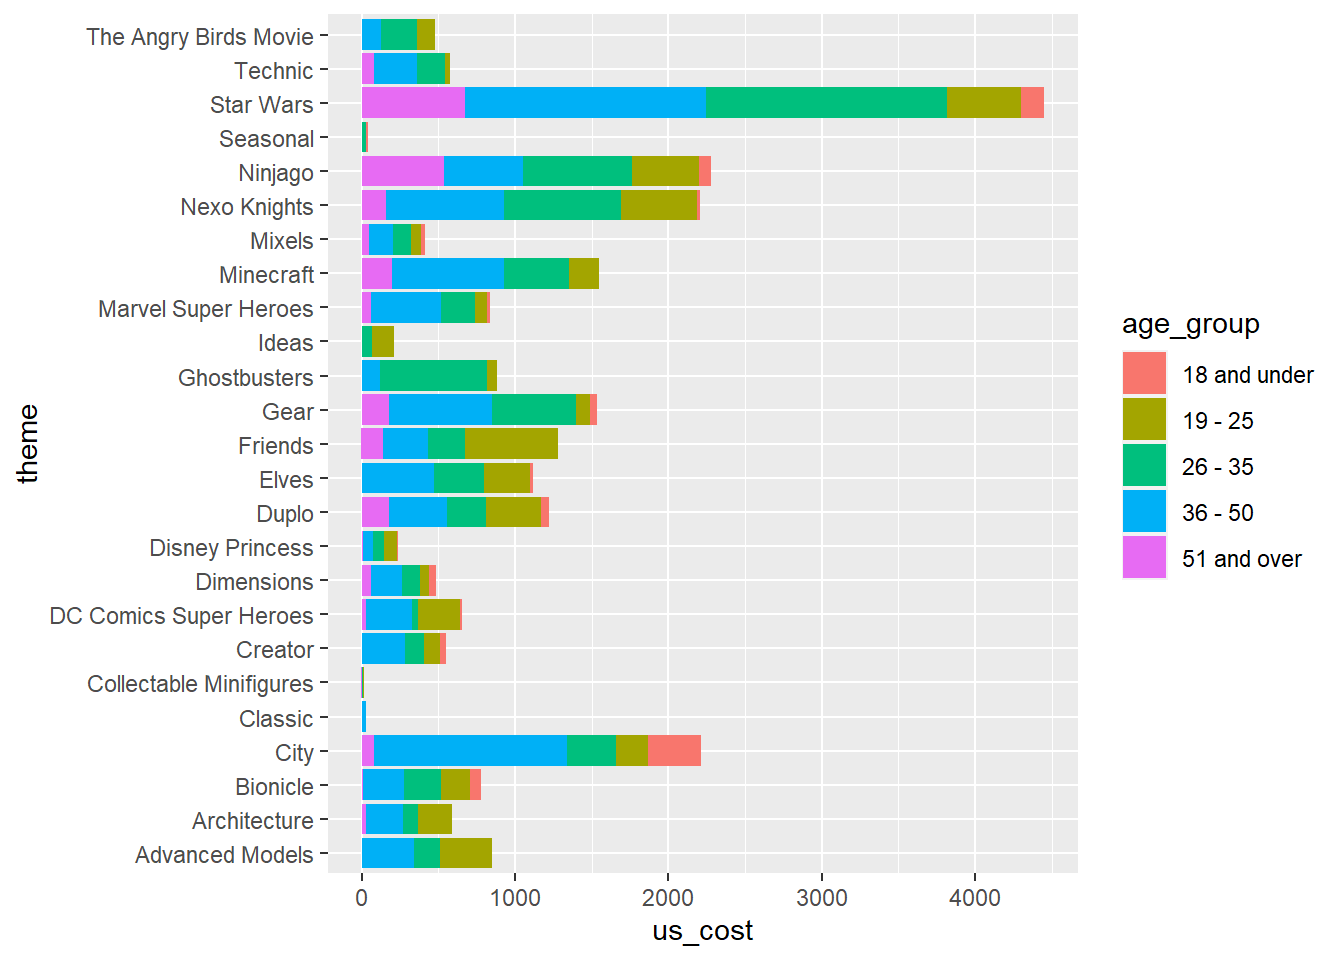
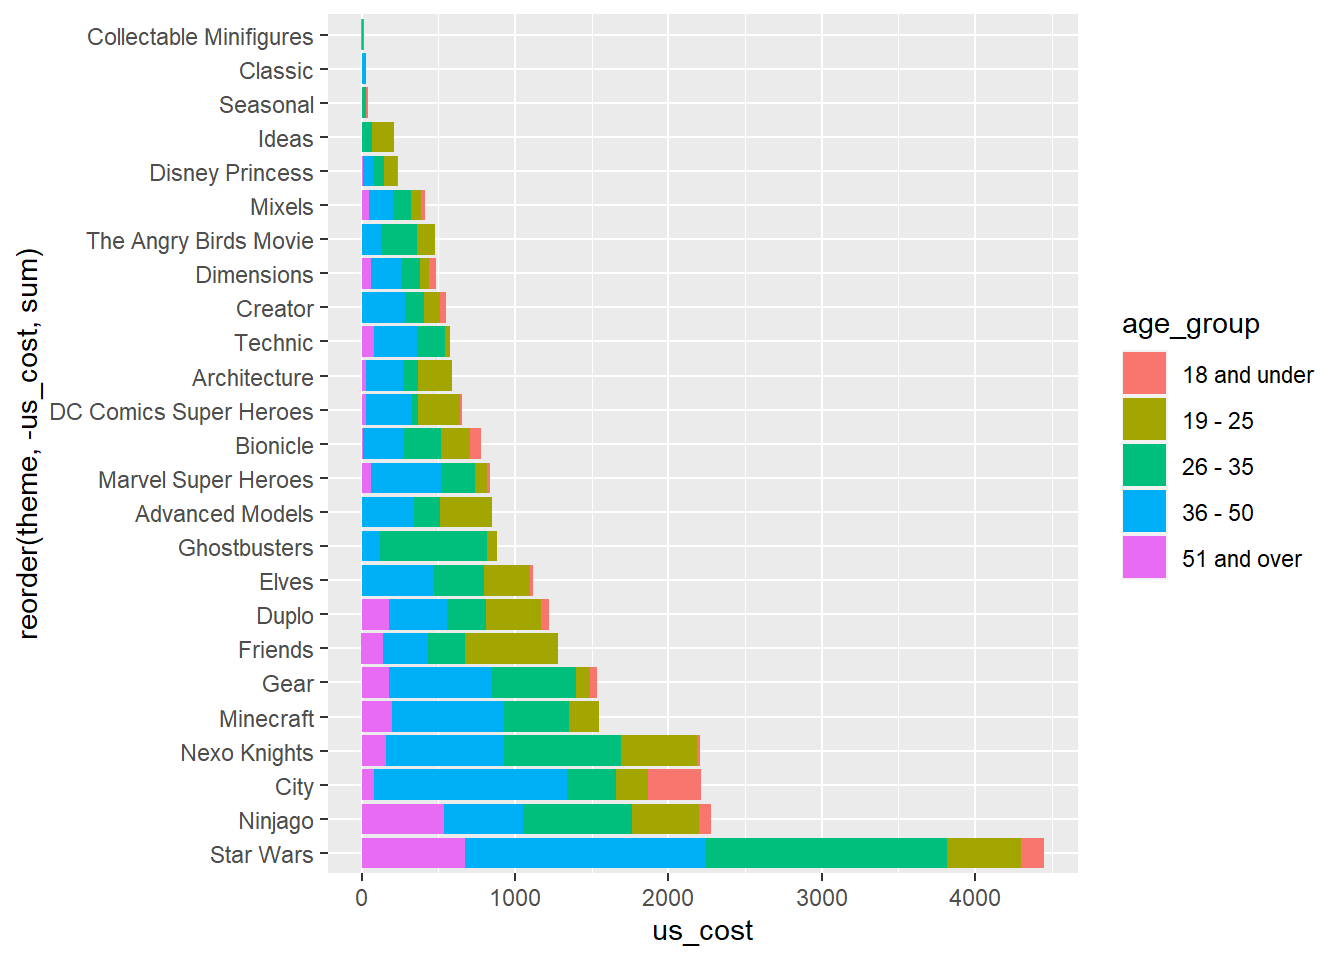
Uploaded Assginment 3.

Changed region(s): [[0.0, 0.0, 0.7812, 0.9062]]

diff --git a/public/2021/06/04/assignment-03-lego-sales/index.html b/public/2021/06/04/assignment-03-lego-sales/index.html
@@ -86,25 +86,10 @@
   count(sort = TRUE, name = &quot;count_names&quot;) %&gt;%
   arrange(desc(count_names)) %&gt;%
   head(10)
-  
-common_names</code></pre>
-<pre><code>## # A tibble: 10 x 2
-## # Groups:   first_name [10]
-##    first_name count_names
-##    &lt;chr&gt;            &lt;int&gt;
-##  1 Jackson             13
-##  2 Jacob               11
-##  3 Joseph              11
-##  4 Michael             10
-##  5 Audrey               8
-##  6 Connor               8
-##  7 Kaitlyn              8
-##  8 Lucas                8
-##  9 Amanda               7
-## 10 Joshua               7</code></pre>
-<pre class="r"><code>ggplot(common_names, aes( x= first_name, y = count_names)) +
+
+
+ggplot(common_names, aes( x= first_name, y = count_names)) +
   geom_col(stat = &quot;Count&quot;)</code></pre>
-<pre><code>## Warning: Ignoring unknown parameters: stat</code></pre>
 <p><img src="/2021/06/04/assignment-03-lego-sales/index_files/figure-html/unnamed-chunk-2-1.png" width="672" /></p>
 </div>
 <div id="determine-the-top-3-themes" class="section level2">
@@ -194,14 +179,14 @@ mutate(us_cost = us_price * quantity) %&gt;%
   
 
 
-ggplot(lego_themespending, aes(x = us_cost , y = theme, fill = age_group)) + 
+ggplot(lego_themespending, aes(x = us_cost, y = reorder(theme, -us_cost, sum), fill = age_group)) + 
   geom_col()</code></pre>
 <p><img src="/2021/06/04/assignment-03-lego-sales/index_files/figure-html/unnamed-chunk-8-1.png" width="672" /></p>
 </div>
 <div id="add-an-element-to-the-above-plot" class="section level2">
 <h2>Add an element to the above plot</h2>
 <p>The change I made to the above plot was to the chart labels. I added better looking names to the chart.</p>
-<pre class="r"><code>ggplot(lego_themespending, aes(x = us_cost , y = theme, fill = age_group)) + 
+<pre class="r"><code>ggplot(lego_themespending, aes(x = us_cost, y = reorder(theme, -us_cost, sum), fill = age_group)) + 
   geom_col() +
   labs(title = &quot;Spending on Themes by Age Group&quot;, fill = &quot;Age Group&quot; ) +
   xlab(&quot;Cost in US Dollars ($)&quot;) +

diff --git a/content/post/2021-06-04-assignment-03-lego-sales/index.html b/content/post/2021-06-04-assignment-03-lego-sales/index.html
@@ -1,6 +1,6 @@
 ---
-title: Assignment 03 - Lego Sales
-author: DylanMcKenna
+title: "Assignment 03 - Lego Sales"
+author: "DylanMcKenna"
 date: '2021-06-04'
 slug: assignment-03-lego-sales
 categories: []
@@ -113,14 +113,14 @@ mutate(us_cost = us_price * quantity) %&gt;%
   
 
 
-ggplot(lego_themespending, aes(x = us_cost , y = theme, fill = age_group)) + 
+ggplot(lego_themespending, aes(x = us_cost, y = reorder(theme, -us_cost, sum), fill = age_group)) + 
   geom_col()</code></pre>
 <p><img src="{{< blogdown/postref >}}index_files/figure-html/unnamed-chunk-8-1.png" width="672" /></p>
 </div>
 <div id="add-an-element-to-the-above-plot" class="section level2">
 <h2>Add an element to the above plot</h2>
 <p>The change I made to the above plot was to the chart labels. I added better looking names to the chart.</p>
-<pre class="r"><code>ggplot(lego_themespending, aes(x = us_cost , y = theme, fill = age_group)) + 
+<pre class="r"><code>ggplot(lego_themespending, aes(x = us_cost, y = reorder(theme, -us_cost, sum), fill = age_group)) + 
   geom_col() +
   labs(title = &quot;Spending on Themes by Age Group&quot;, fill = &quot;Age Group&quot; ) +
   xlab(&quot;Cost in US Dollars ($)&quot;) +
